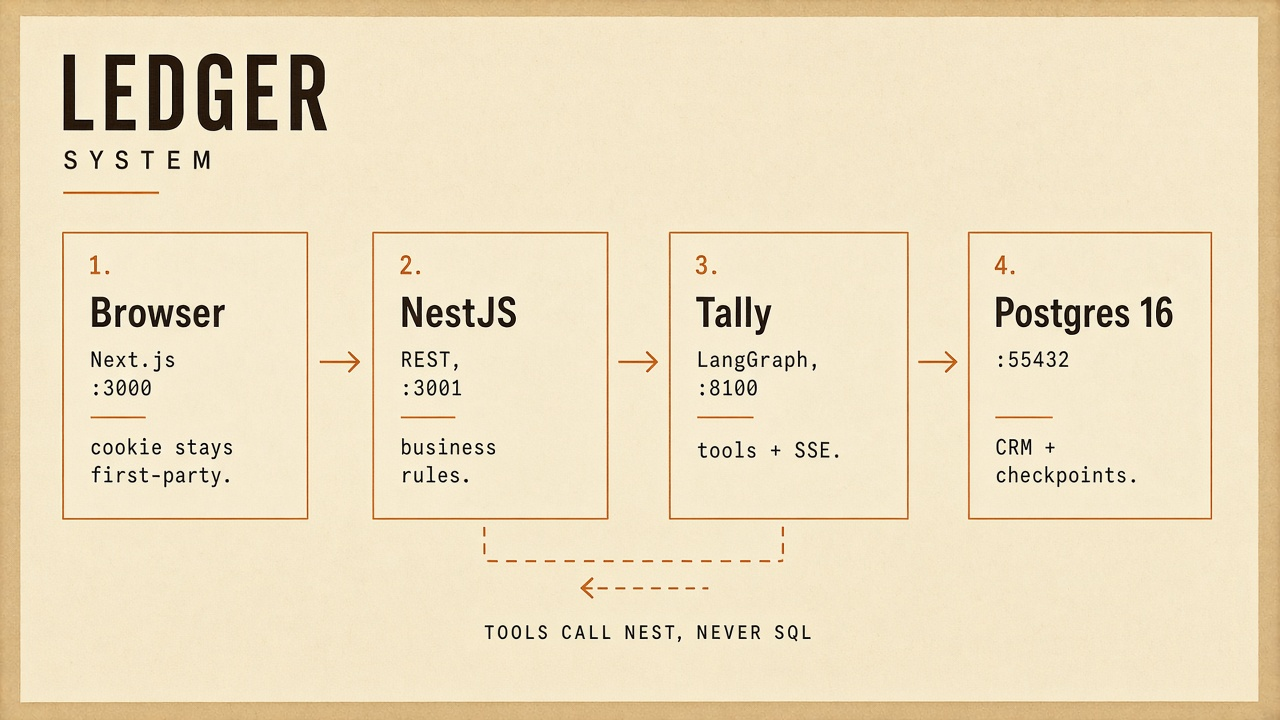
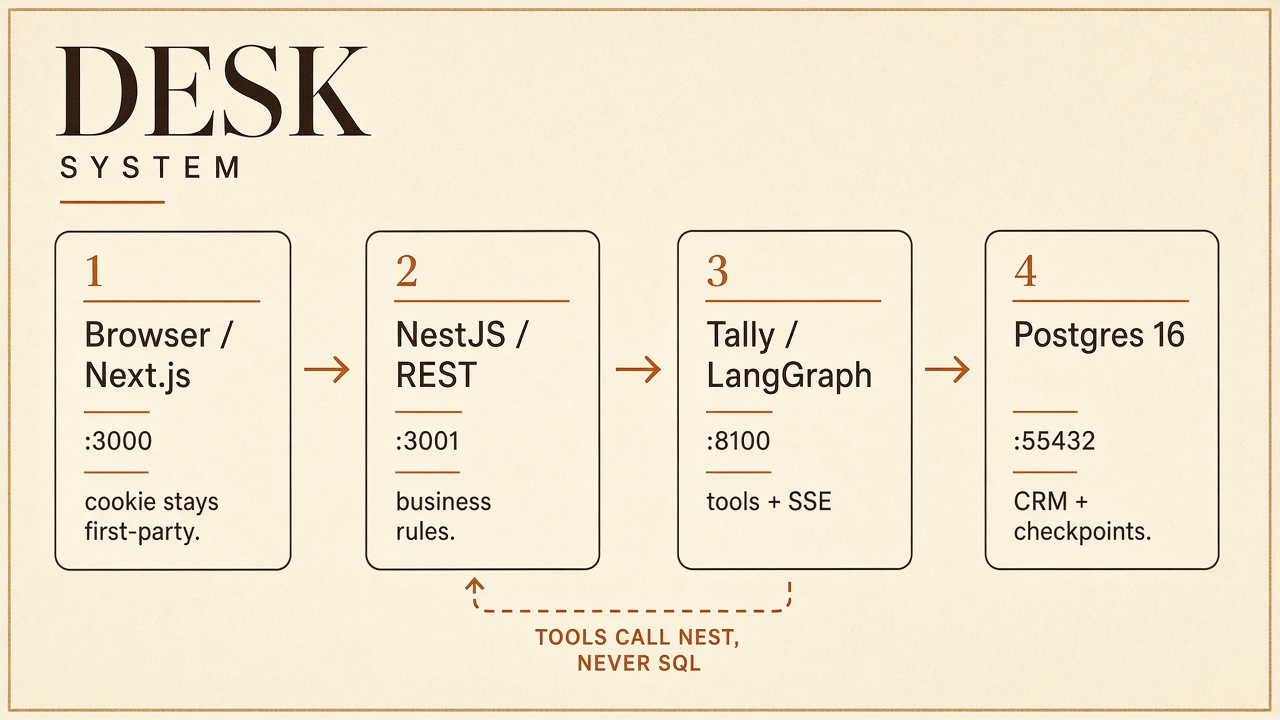
Rename the product from Ledger to Desk so it reads as a sales desk.

Changed region(s): [[0.0, 0.0, 1.0, 1.0]]

diff --git a/apps/web/components/shell/app-shell.tsx b/apps/web/components/shell/app-shell.tsx
@@ -128,7 +128,7 @@ export function AppShell({
       >
         <div className="flex items-start justify-between gap-2 px-5 py-5">
           <div>
-            <p className="font-mono text-[11px] uppercase tracking-[0.22em] text-copper">Ledger</p>
+            <p className="font-mono text-[11px] uppercase tracking-[0.22em] text-copper">Desk</p>
             <p className="mt-1 text-sm text-ink-muted">Sales admin</p>
           </div>
           <Button variant="ghost" size="sm" className="lg:hidden" onClick={() => setNavOpen(false)}>
@@ -176,7 +176,7 @@ export function AppShell({
               <MenuGlyph />
               Menu
             </Button>
-            <p className="truncate font-mono text-[11px] uppercase tracking-[0.22em] text-copper">Ledger</p>
+            <p className="truncate font-mono text-[11px] uppercase tracking-[0.22em] text-copper">Desk</p>
           </div>
           <Button
             variant="secondary"

diff --git a/apps/web/app/login/page.tsx b/apps/web/app/login/page.tsx
@@ -27,7 +27,7 @@ export default function LoginPage() {
       <div className="pointer-events-none absolute inset-0 bg-[radial-gradient(ellipse_at_50%_12%,rgba(196,78,31,0.22),transparent_52%)]" />
       <div className="pointer-events-none absolute inset-0 bg-[radial-gradient(ellipse_at_50%_110%,rgba(40,24,12,0.16),transparent_55%)]" />
       <div className="relative w-full max-w-[420px] rounded-[14px] border border-line bg-panel p-6 shadow-float ring-1 ring-white/40 sm:p-8">
-        <p className="font-mono text-[11px] uppercase tracking-[0.22em] text-copper">Ledger</p>
+        <p className="font-mono text-[11px] uppercase tracking-[0.22em] text-copper">Desk</p>
         <h1 className="mt-3 text-2xl font-medium tracking-tight">Sign in</h1>
         <p className="mt-1 text-sm text-ink-muted">Sales admin for the book of business.</p>
         <form

diff --git a/apps/web/components/copilot/gen-ui.tsx b/apps/web/components/copilot/gen-ui.tsx
@@ -89,7 +89,7 @@ export function GenUi({
               </Link>
               <Badge variant="copper">Customer</Badge>
             </div>
-            <p className="mt-1 font-mono text-[10px] uppercase tracking-[0.12em] text-ink-muted">Ledger record</p>
+            <p className="mt-1 font-mono text-[10px] uppercase tracking-[0.12em] text-ink-muted">On file</p>
           </div>
         </div>
         <dl className="border-t border-line">

diff --git a/apps/web/app/(admin)/layout.tsx b/apps/web/app/(admin)/layout.tsx
@@ -24,7 +24,7 @@ export default function AdminLayout({ children }: { children: React.ReactNode })
   }, [me.error, router]);
 
   if (me.isLoading) {
-    return <div className="flex min-h-[100dvh] items-center justify-center text-sm text-ink-muted">Loading ledger…</div>;
+    return <div className="flex min-h-[100dvh] items-center justify-center text-sm text-ink-muted">Loading desk…</div>;
   }
   if (!me.data) {
     return null;

diff --git a/apps/web/components/copilot/copilot-rail.tsx b/apps/web/components/copilot/copilot-rail.tsx
@@ -22,7 +22,7 @@ type Msg = {
 
 const WELCOME_ID = "tally-welcome";
 
-const WELCOME_TEXT = `I'm **Tally**, your sales desk on this ledger.
+const WELCOME_TEXT = `I'm **Tally**. I work this sales desk.
 
 I can look up customers, pipeline, and closed revenue from live data. If you ask me to change a record, I'll show an Approve step first.
 

diff --git a/apps/web/app/layout.tsx b/apps/web/app/layout.tsx
@@ -15,7 +15,7 @@ const mono = IBM_Plex_Mono({
 });
 
 export const metadata = {
-  title: "Ledger",
+  title: "Desk",
   description: "Sales admin panel",
 };
 

diff --git a/apps/agent/src/agent/graph.py b/apps/agent/src/agent/graph.py
@@ -27,7 +27,7 @@ class AgentState(TypedDict):
     memories: list[dict[str, str]]
 
 
-SYSTEM = """You are Tally, Ledger's internal sales desk assistant.
+SYSTEM = """You are Tally, the assistant on this sales desk.
 
 Tools return live CRM data. Never invent customer or sale IDs.
 
@@ -45,7 +45,7 @@ Known facts about this seller:
 
 
 def _llm(session_id: str | None = None) -> ChatOpenAI:
-    headers = {"User-Agent": "ledger-tally/1.0"}
+    headers = {"User-Agent": "desk-tally/1.0"}
     if session_id:
         headers["x-opencode-session"] = session_id
     return ChatOpenAI(

diff --git a/apps/agent/src/agent/settings.py b/apps/agent/src/agent/settings.py
@@ -23,7 +23,7 @@ class Settings(BaseSettings):
     llm_base_url: str = "https://opencode.ai/zen/go/v1"
     api_origin: str = "http://127.0.0.1:3001"
     langsmith_api_key: str = ""
-    langsmith_project: str = "ledger-tally"
+    langsmith_project: str = "desk-tally"
 
     @property
     def llm_api_key(self) -> str:

diff --git a/specs/frontend.md b/specs/frontend.md
@@ -31,7 +31,7 @@ Mutations invalidate the matching lists plus `dashboard`. Kanban status patch in
 
 ## Kanban
 
-Columns: New, In Progress, Completed. Desktop uses the `Kanban` primitive (`@dnd-kit`) with drag between columns. Below `lg`, a stage tab list shows one column at a time and cards move via a select. Cards show Ledger `Badge`s (Deal + status). Optimistic status update; rollback on error. Cancelled is hidden here. Column order is fixed.
+Columns: New, In Progress, Completed. Desktop uses the `Kanban` primitive (`@dnd-kit`) with drag between columns. Below `lg`, a stage tab list shows one column at a time and cards move via a select. Cards show Desk `Badge`s (Deal + status). Optimistic status update; rollback on error. Cancelled is hidden here. Column order is fixed.
 
 ## Forms
 
@@ -41,7 +41,7 @@ Customer and sale create/edit in dialogs on list pages; detail pages allow edit 
 
 - Persistent thread per user (server-side `thread:{userId}`)
 - Stream tokens into the last assistant message
-- Render `ui` parts with a closed registry (OpenUI-style library, not free-form model HTML). One data widget per turn. Widgets match Ledger: KPI trio, identity customer cards, headed lists, pipeline bars.
+- Render `ui` parts with a closed registry (OpenUI-style library, not free-form model HTML). One data widget per turn. Widgets match Desk: KPI trio, identity customer cards, headed lists, pipeline bars.
 - `interrupt` shows `ConfirmAction`; Approve calls resume `approve`, Reject calls `reject`
 - Health query: if `llm` is false, show setup empty state instead of the composer being “broken”
 - First open seeds a Tally welcome message plus clickable “Try asking” prompts (revenue, pipeline, customers, open deals). ⌘K focuses the composer.

diff --git a/specs/design.md b/specs/design.md
@@ -47,11 +47,11 @@ Tight tables (row py ~10px). Sidebar ~232px on desktop; a Menu drawer on small s
 - Toasts: success green wash, error red wash
 - KPI: label muted, value IBM Plex Sans 28px, not a rainbow icon grid; revenue card gets a copper top edge
 - Kanban column: panel, status color as 3px top edge; count badge in the header; cards show Deal + status. On small screens, one stage at a time with a Move-to control — not a squeezed three-column board.
-- Tally: copper 3px left rule on the rail; copper 2px left rule on assistant messages; no purple glow, no sparkle spam. GenUI widgets reuse Ledger cards, badges, and KPI type — not a second visual language.
+- Tally: copper 3px left rule on the rail; copper 2px left rule on assistant messages; no purple glow, no sparkle spam. GenUI widgets reuse Desk cards, badges, and KPI type — not a second visual language.
 
 ## Layout
 
-Left: wordmark “Ledger” + nav (Dashboard, Customers, Sales, Pipeline). On small screens the nav is behind Menu.  
+Left: wordmark “Desk” + nav (Dashboard, Customers, Sales, Pipeline). On small screens the nav is behind Menu.  
 Main: page title, one-line description, actions aligned right (stack on narrow viewports).  
 Right: Tally. On small screens Tally is a full-screen overlay, closed by default.
 

diff --git a/README.md b/README.md
@@ -1,4 +1,4 @@
-# Ledger
+# Desk
 
 [![Next.js](https://img.shields.io/badge/Next.js_15-16120F?style=flat-square&logo=nextdotjs&logoColor=DCC9B0)](https://nextjs.org)
 [![React](https://img.shields.io/badge/React_19-16120F?style=flat-square&logo=react&logoColor=DCC9B0)](https://react.dev)
@@ -101,7 +101,7 @@ pnpm dev
 
 [http://localhost:3000](http://localhost:3000) — `leo.a@example.org` / `demo1234`
 
-Tally needs `OPENCODE_GO_API_KEY`. The CRM works without it. Optional traces: `LANGSMITH_API_KEY`, project `ledger-tally`.
+Tally needs `OPENCODE_GO_API_KEY`. The CRM works without it. Optional traces: `LANGSMITH_API_KEY`, project `desk-tally`.
 
 | | |
 | --- | --- |

diff --git a/specs/product.md b/specs/product.md
@@ -41,7 +41,7 @@ Total revenue counts only sales with status `completed`.
 
 ## Tally
 
-Tally is Ledger's sales desk assistant. It answers questions, renders structured UI (tables, cards, KPIs), remembers facts across turns, and can mutate CRM data after the user confirms.
+Tally is the sales-desk assistant. It answers questions, renders structured UI (tables, cards, KPIs), remembers facts across turns, and can mutate CRM data after the user confirms.
 
 ## Acceptance
 
